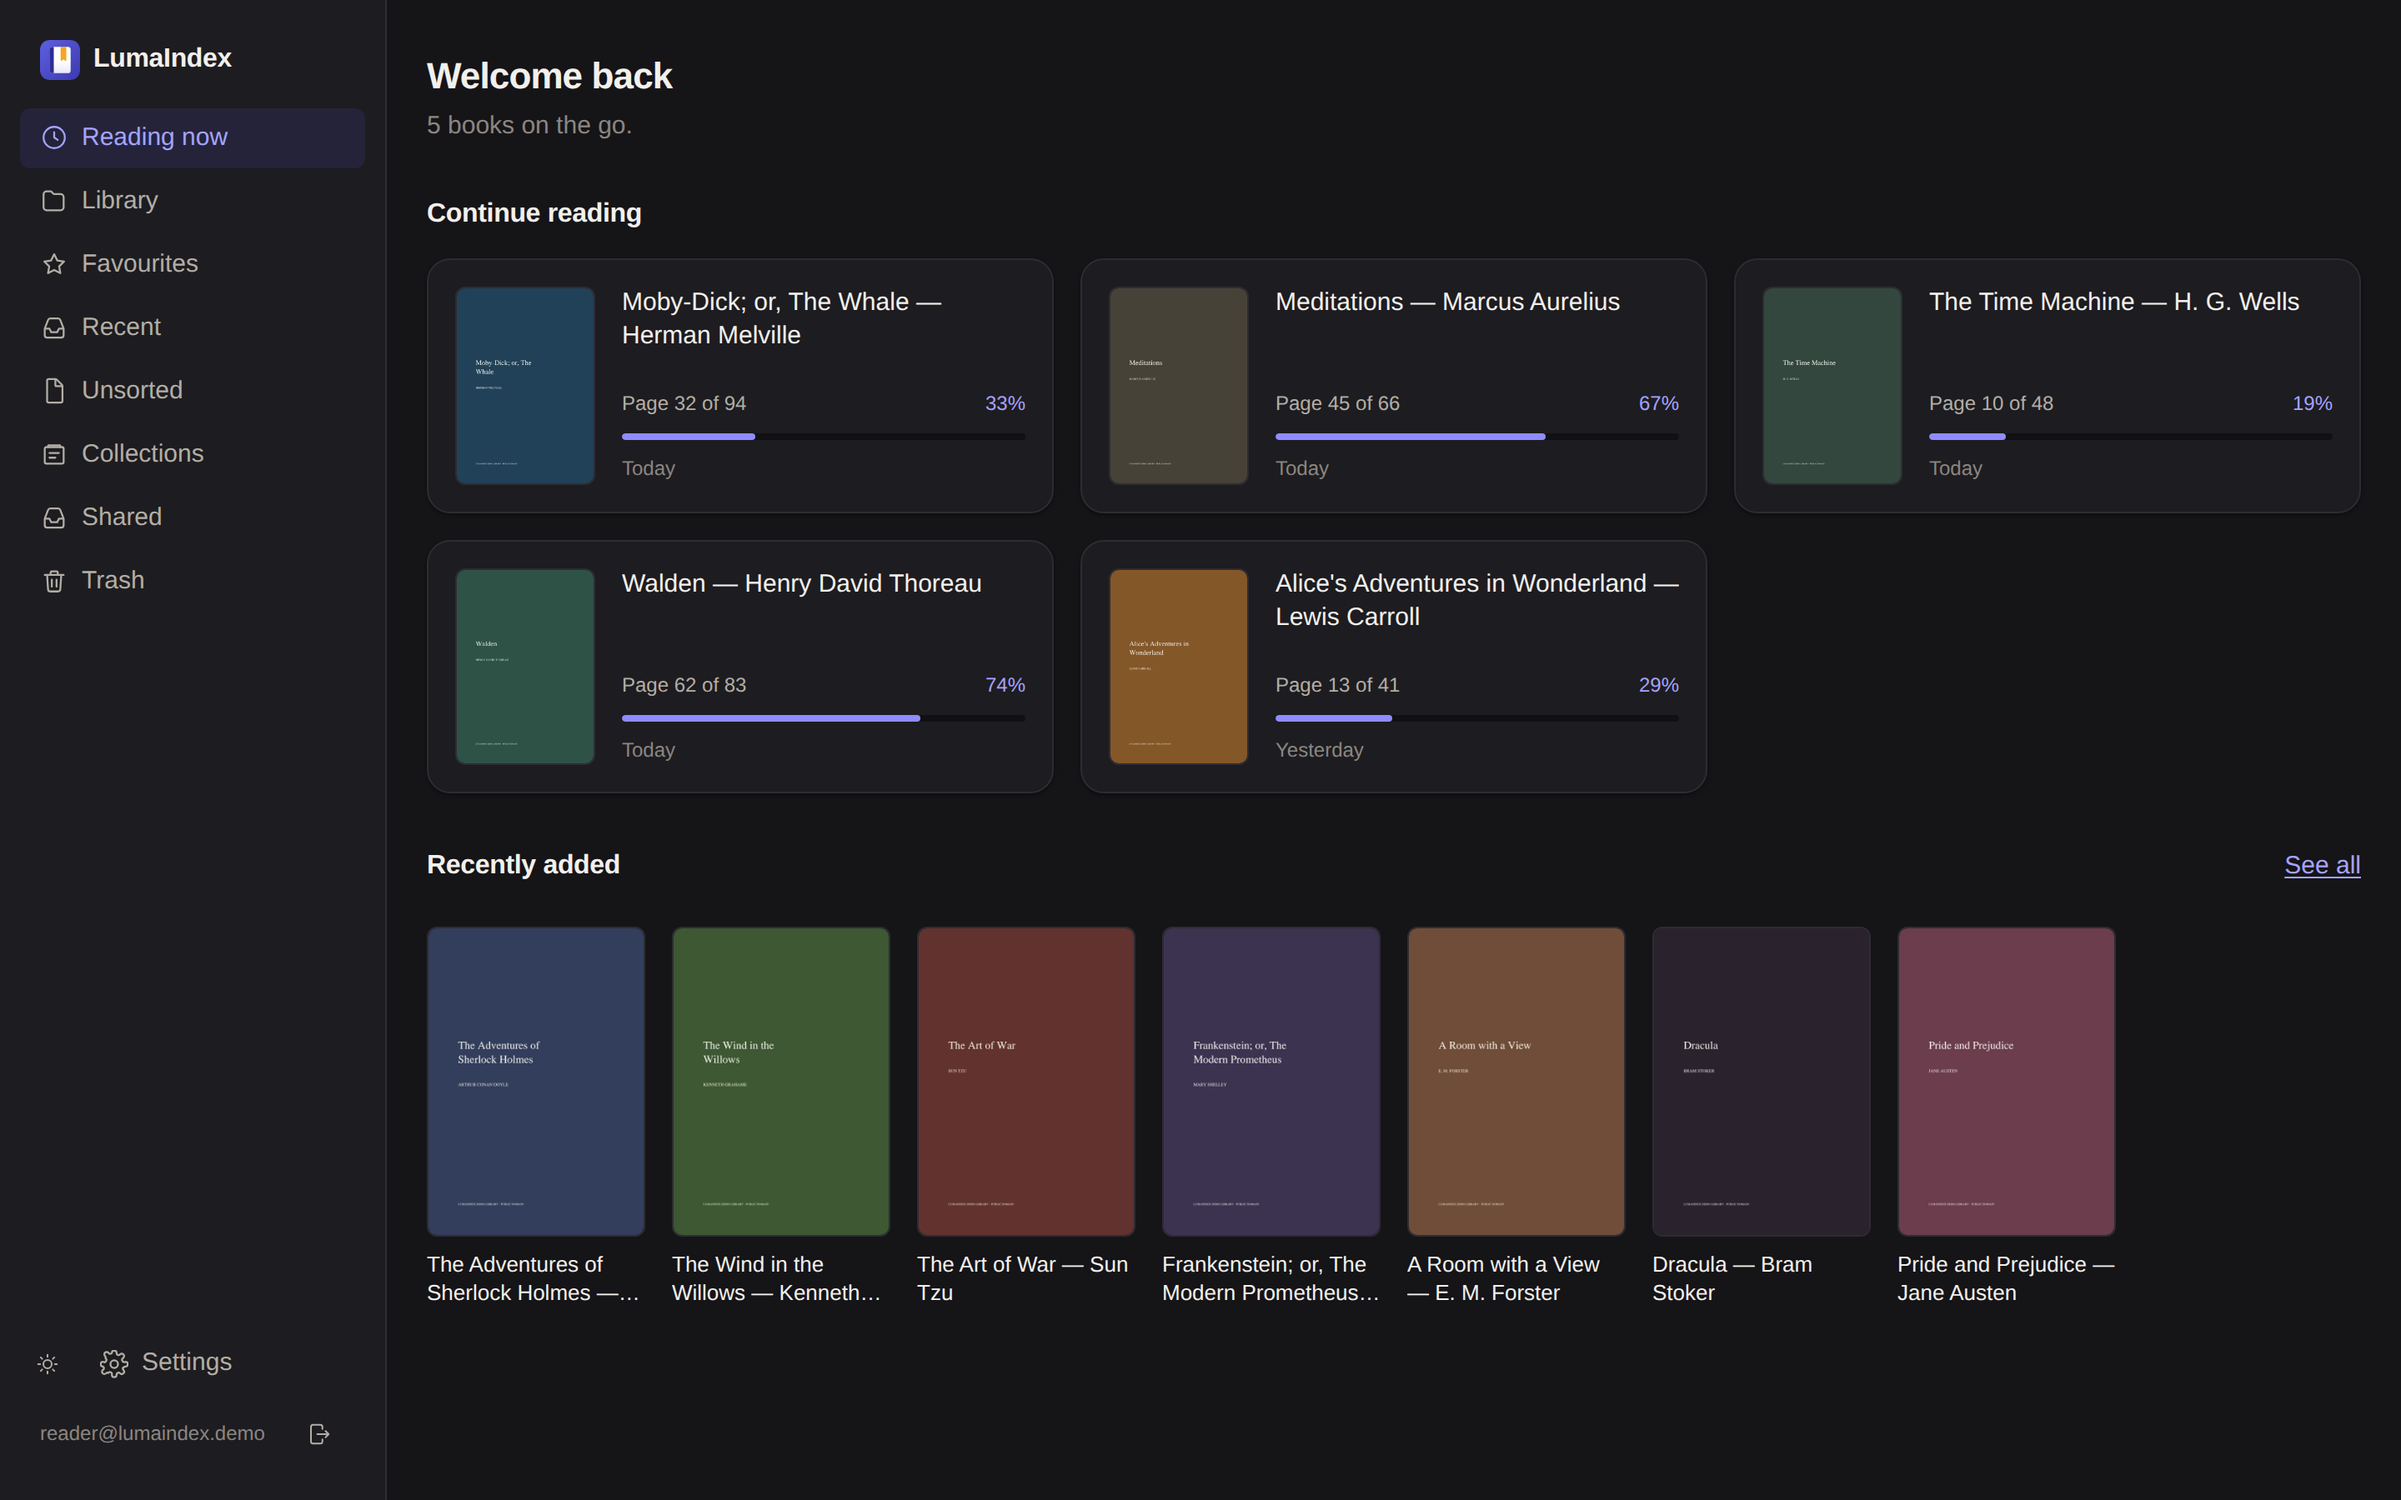
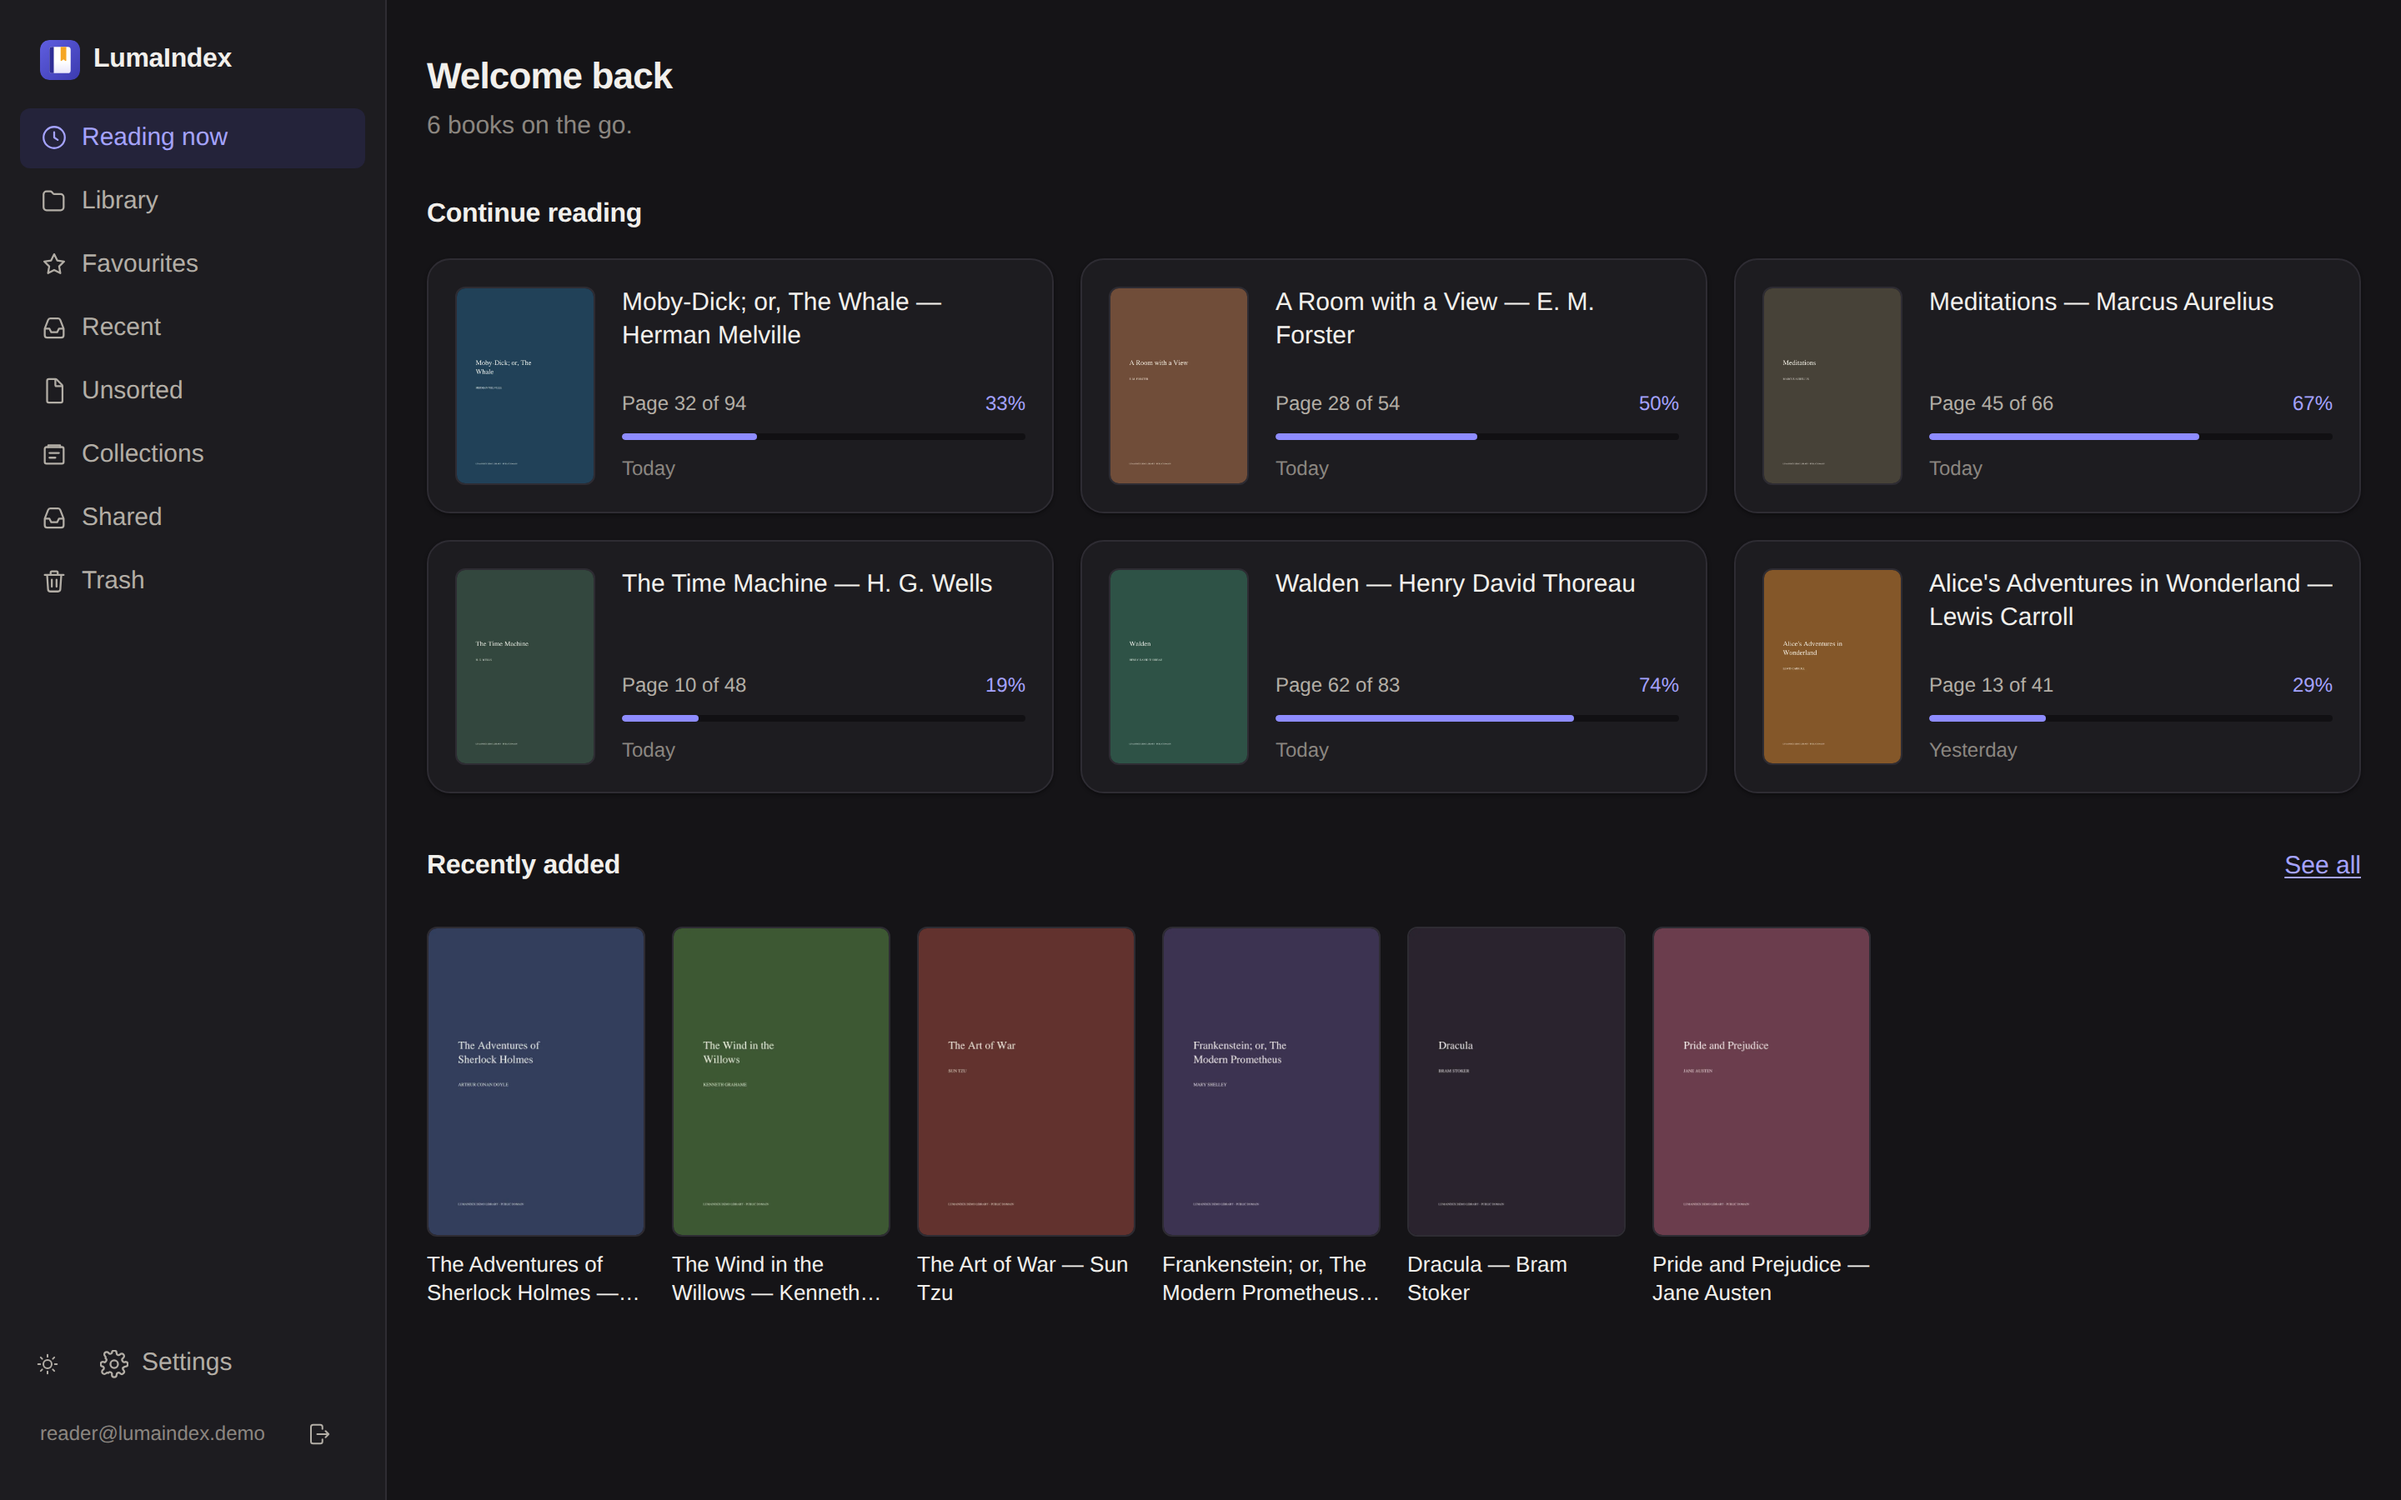
Take two thirds of the controls out of the reader's bar
Last slice of the redesign, and the one with the most to break: every e2e test
points at this bar.

It carried fifteen controls at every width — back, three panel toggles, title,
two page arrows, a page field, a percentage, a bookmark, find, two zoom buttons,
a fit toggle, a mode toggle, fullscreen and a menu — and the menu only appeared
below 30rem. So the phone had a considered layout and the desktop had whatever
had accumulated. Seven now, and the menu is always there.

What left: zoom, fit, fullscreen, the contents toggle and the bookmark. All
were already in the menu or are now, and none of them is something you reach
for while reading.

The page arrows left conditionally, which is the part worth keeping. In
continuous scroll they duplicate the wheel; in single-page mode they are the
only way to turn a page. So they appear in single-page mode and nowhere else —
and the e2e test that switches modes and clicks Next page still passes without
being touched, because that is exactly when they exist.

Progress moved out of the row and under it: a two-pixel line across the foot of
the bar, which says how far through the book you are and takes no width in a
bar that had none to spare. It is also the only progress a phone gets, since
the page field and percentage were dropped there long ago for room.

Measured at three widths after: 3 controls at 390px, 7 at 768 and 1440, and
zero horizontal overflow at any of them.
[…]

diff --git a/frontend/pages/books/[id]/index.vue b/frontend/pages/books/[id]/index.vue
@@ -137,6 +137,8 @@ const barOverflow = computed(() => {
       run: () => { mode.value = mode.value === 'continuous' ? 'single' : 'continuous' } },
     { label: fit.value === 'fit-width' ? 'Fit page' : 'Fit width', icon: 'search',
       run: () => { fit.value = fit.value === 'fit-width' ? 'fit-page' : 'fit-width' } },
+    { label: 'Zoom in', icon: 'search', run: zoomIn },
+    { label: 'Zoom out', icon: 'search', run: zoomOut },
     { label: 'Fullscreen', icon: 'large-view', run: fullscreen },
     { label: 'About this book', icon: 'collection',
       run: () => navigateTo(`/books/${bookId.value}/details`) },
@@ -375,7 +377,8 @@ useHead({ title: computed(() => book.value ? `${book.value.title} — LumaIndex`
           <AppIcon name="chevron-right" :size="16" class="flip" />
           <span class="sr-only">Back to library</span>
         </NuxtLink>
-        <AppButton v-if="outline.length" variant="ghost" size="sm" icon-only icon="list-view" class="panel-toggle"
+        <AppButton v-if="outline.length" variant="ghost" size="sm" icon-only icon="list-view"
+                   class="panel-toggle contents-toggle"
                    :title="sidebar ? 'Hide contents' : 'Show contents'"
                    @click="sidebar = !sidebar; thumbnails = false" />
         <AppButton variant="ghost" size="sm" icon-only icon="grid-view" class="panel-toggle"
@@ -388,43 +391,31 @@ useHead({ title: computed(() => book.value ? `${book.value.title} — LumaIndex`
       </div>
 
       <div class="middle">
-        <AppButton variant="ghost" size="sm" icon-only icon="arrow-up" title="Previous page"
-                   class="flip-up" @click="reader?.previous()" />
+        <AppButton v-if="mode === 'single'" variant="ghost" size="sm" icon-only icon="arrow-up"
+                   title="Previous page" class="flip-up" @click="reader?.previous()" />
         <form class="jump" @submit.prevent="submitJump">
           <input v-model="jumpTo" type="text" inputmode="numeric"
                  :placeholder="String(page)" aria-label="Jump to page" />
           <span class="of">/ {{ totalPages || '…' }}</span>
         </form>
-        <AppButton variant="ghost" size="sm" icon-only icon="arrow-up" title="Next page"
-                   class="flip-down" @click="reader?.next()" />
+        <AppButton v-if="mode === 'single'" variant="ghost" size="sm" icon-only icon="arrow-up"
+                   title="Next page" class="flip-down" @click="reader?.next()" />
         <span class="pct tertiary">{{ percentage }}%</span>
-        <AppButton variant="ghost" size="sm" icon-only
-                   :icon="currentBookmark ? 'check' : 'file'"
-                   class="bookmark-toggle" :class="{ bookmarked: currentBookmark }"
-                   :title="currentBookmark ? 'Remove bookmark' : 'Bookmark this page'"
-                   @click="toggleBookmark" />
       </div>
 
       <div class="right">
         <AppButton v-if="book?.has_text_layer !== false" variant="ghost" size="sm" icon-only
                    icon="search" title="Find in book (⌘F)" @click="toggleSearch" />
-        <AppButton class="zoom" variant="ghost" size="sm" :title="'Zoom out'"
-                   @click="zoomOut">−</AppButton>
-        <AppButton class="zoom" variant="ghost" size="sm"
-                   :title="fit === 'fit-width' ? 'Fit page' : 'Fit width'"
-                   @click="fit = fit === 'fit-width' ? 'fit-page' : 'fit-width'">
-          {{ fit === 'fit-page' ? 'Fit page' : 'Fit width' }}
-        </AppButton>
-        <AppButton class="zoom" variant="ghost" size="sm" :title="'Zoom in'"
-                   @click="zoomIn">+</AppButton>
         <AppButton class="mode-toggle" variant="ghost" size="sm"
                    :title="mode === 'continuous' ? 'Single page' : 'Continuous scroll'"
                    @click="mode = mode === 'continuous' ? 'single' : 'continuous'">
           {{ mode === 'continuous' ? 'Scroll' : 'Page' }}
         </AppButton>
-        <AppButton variant="ghost" size="sm" icon-only icon="large-view" class="fullscreen" title="Fullscreen"
-                   @click="fullscreen" />
         <RowMenu class="bar-overflow" :actions="barOverflow" label="More reader controls" />
+      </div>
+
+      <div class="bar-progress" aria-hidden="true">
+        <div class="bar-read" :style="{ width: `${percentage}%` }" />
       </div>
     </header>
 
@@ -603,6 +594,8 @@ useHead({ title: computed(() => book.value ? `${book.value.title} — LumaIndex`
 .reader-shell.chrome-hidden { background: var(--surface-sunken); }
 .bar {
   display: flex; align-items: center; gap: var(--space-3);
+  /* The progress line is absolutely positioned against this. */
+  position: relative;
   /* Collapsed rather than translated, so the reading area actually grows —
      sliding it out of view would leave behind the gap it used to fill. */
   max-height: 6rem; overflow: hidden;
@@ -753,21 +746,30 @@ h1 { font-size: var(--text-base); font-weight: 500; margin: 0;
 }
 
 /* Above this the menu is redundant — every control is already in the bar. */
-.bar-overflow { display: none; }
+/* Always, not just on a phone: the bar carried fifteen controls at every
+   width, and the ones that left it are the ones you reach for rarely. */
+.bar-overflow { display: block; }
+
+/* A line rather than a widget: it says how far through you are and costs no
+   width in a bar that had too little of it. */
+.bar-progress {
+  position: absolute; left: 0; right: 0; bottom: 0;
+  height: 2px; background: var(--surface-sunken);
+}
+.bar-read { height: 100%; background: var(--accent); }
 
 @media (max-width: 30rem) {
-  .bar-overflow { display: block; }
-  /* Everything the menu now carries. Back, find and the page arrows stay in
-     the bar, which is five controls rather than nine. */
-  .zoom, .mode-toggle, .fullscreen,
-  .panel-toggle, .bookmark-toggle { display: none; }
+  /* What is left to drop on a phone. Zoom, fit, fullscreen, contents and the
+     bookmark left the bar at every width; these are the rest. */
+  .mode-toggle, .panel-toggle { display: none; }
   /* The title stays: it is the one thing here that says which book this is,
      and it already truncates. */
   /* Typing a page number and reading a percentage are the two things a phone
      can most afford to lose, and together they were 140px of a 375px bar —
      enough that the back button and the panel toggles were being crushed to
-     16px, well under a usable touch target. Arrows and the contents panel
-     still navigate. */
+     16px, well under a usable touch target. Scrolling turns the page, the
+     line under the bar still says how far through you are, and the menu
+     carries everything else. */
   .jump, .pct { display: none; }
   .bar { gap: var(--space-1); }
   /* `.left` is flex:1 with min-width:0 so the book title can truncate, and its

diff --git a/README.md b/README.md
@@ -54,6 +54,11 @@ How far into a book you are rides on its cover, where you are already looking.
 A book has a page of its own now, reached from a row menu or from the reader —
 never in front of opening one, because reading is the fast path.
 
+![The reader](docs/screenshots/reader.png)
+
+The reader's bar carries seven controls where it carried fifteen; the rest are
+in one menu, and a line under the bar says how far through the book you are.
+
 <img src="docs/screenshots/phone.png" alt="The library on a phone" width="360">
 
 On a narrow screen the top bar's labels give way to icons, and selection is
